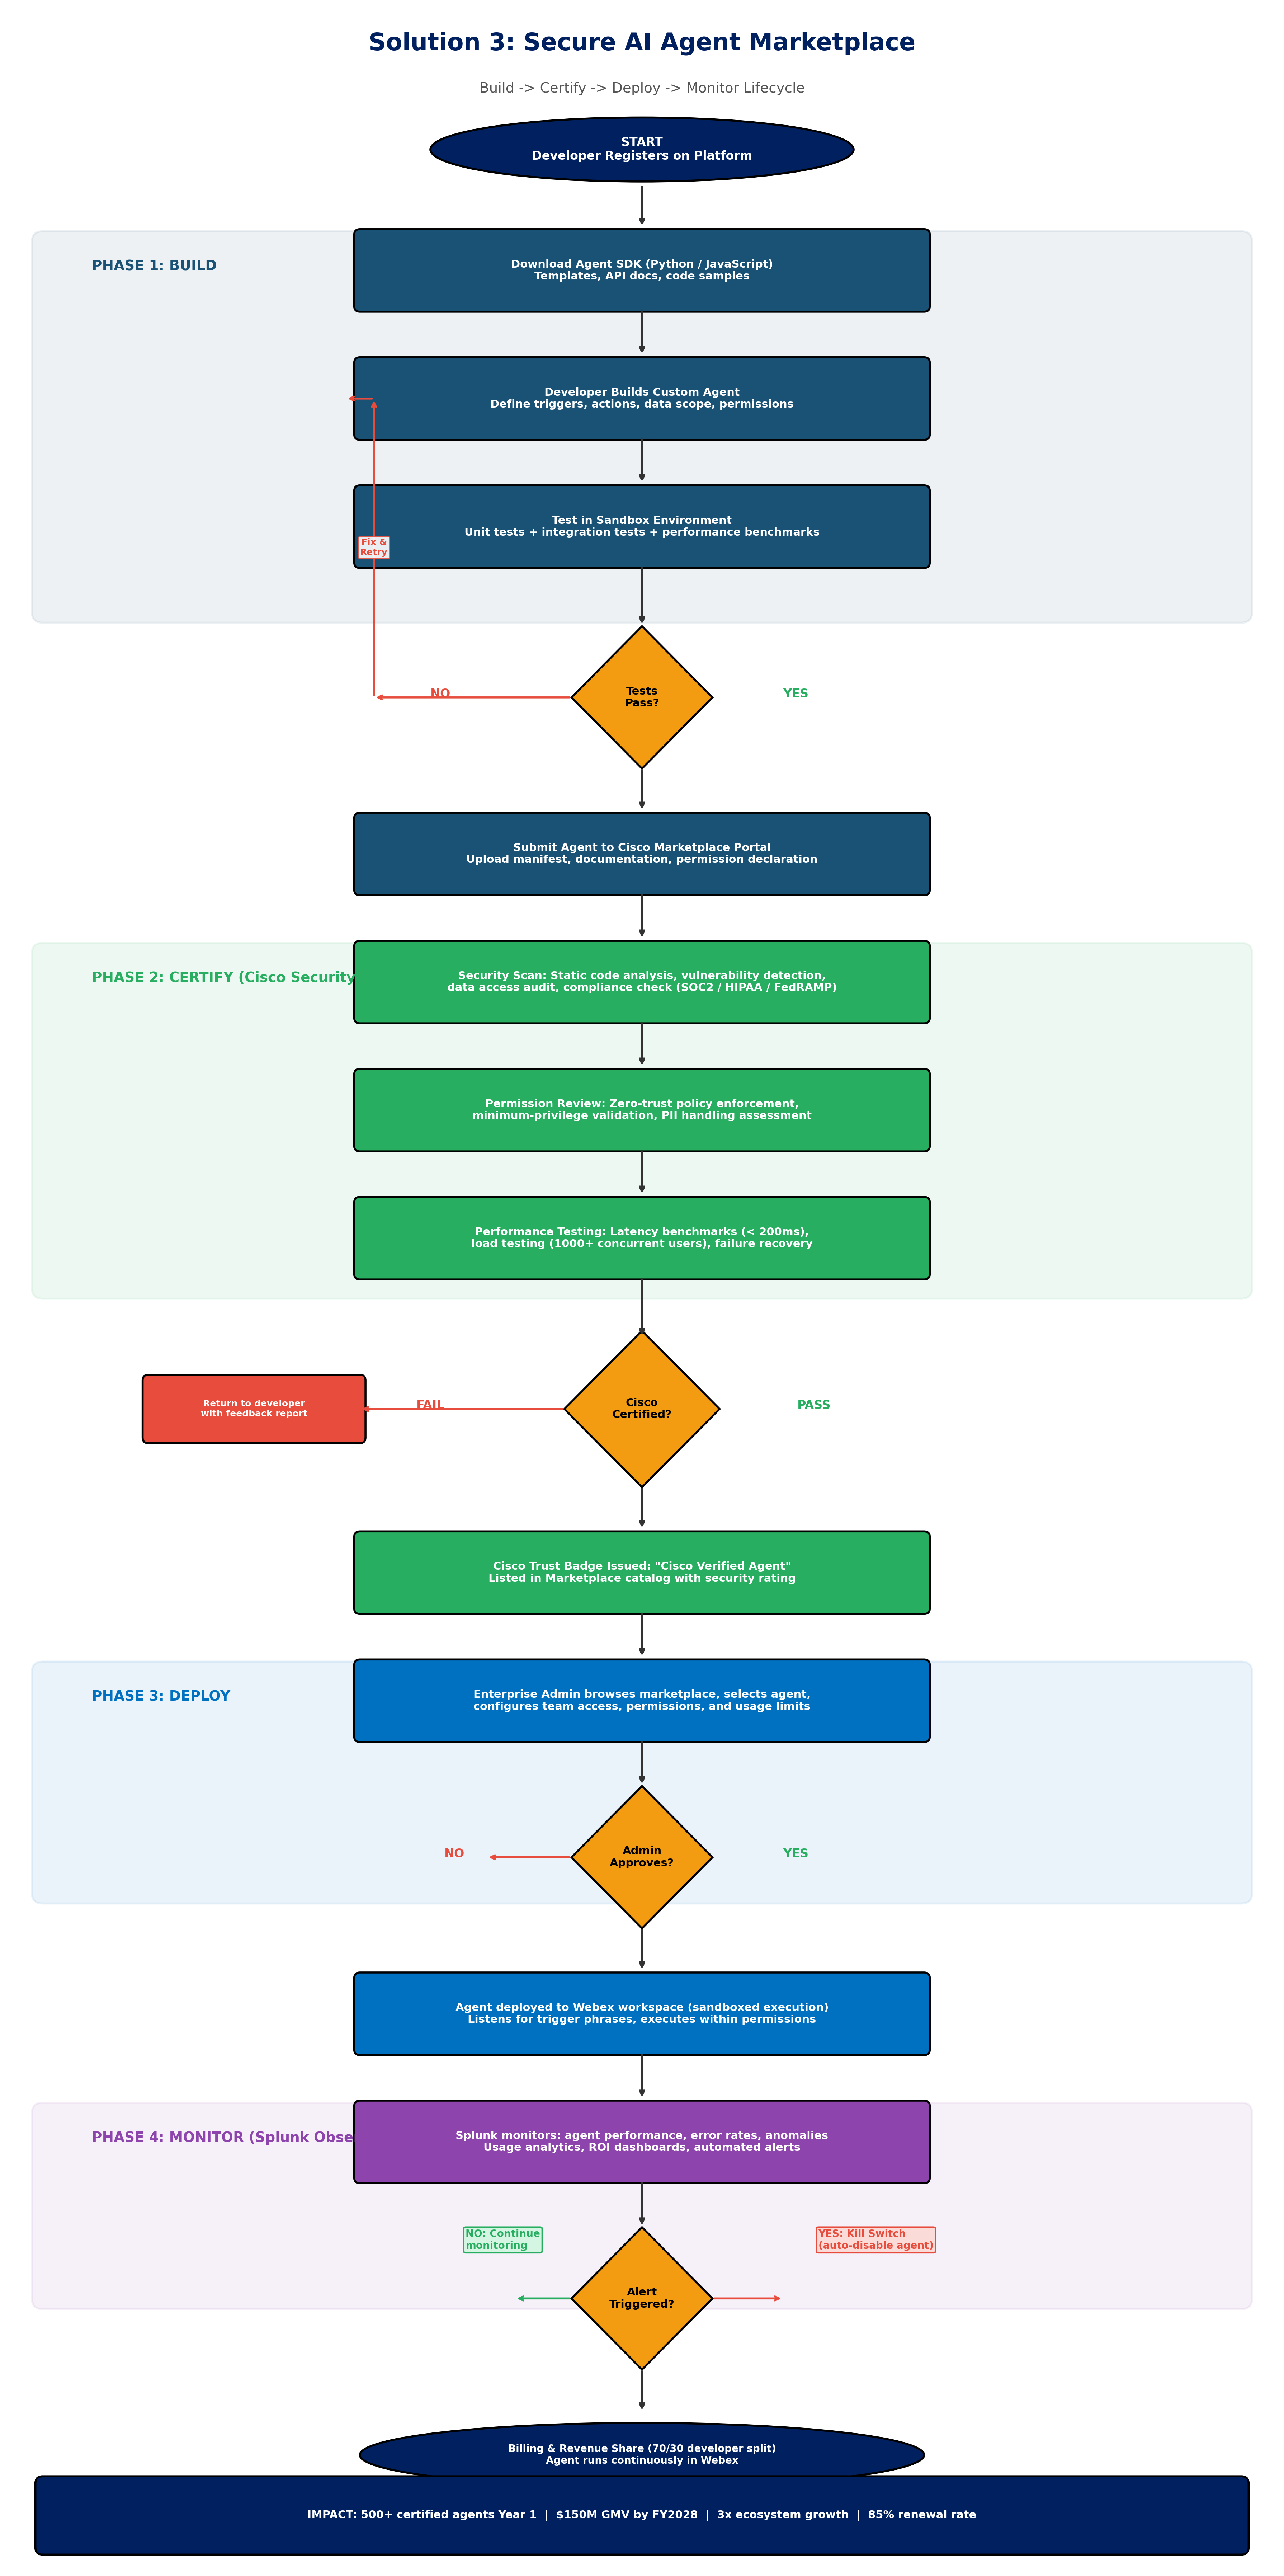
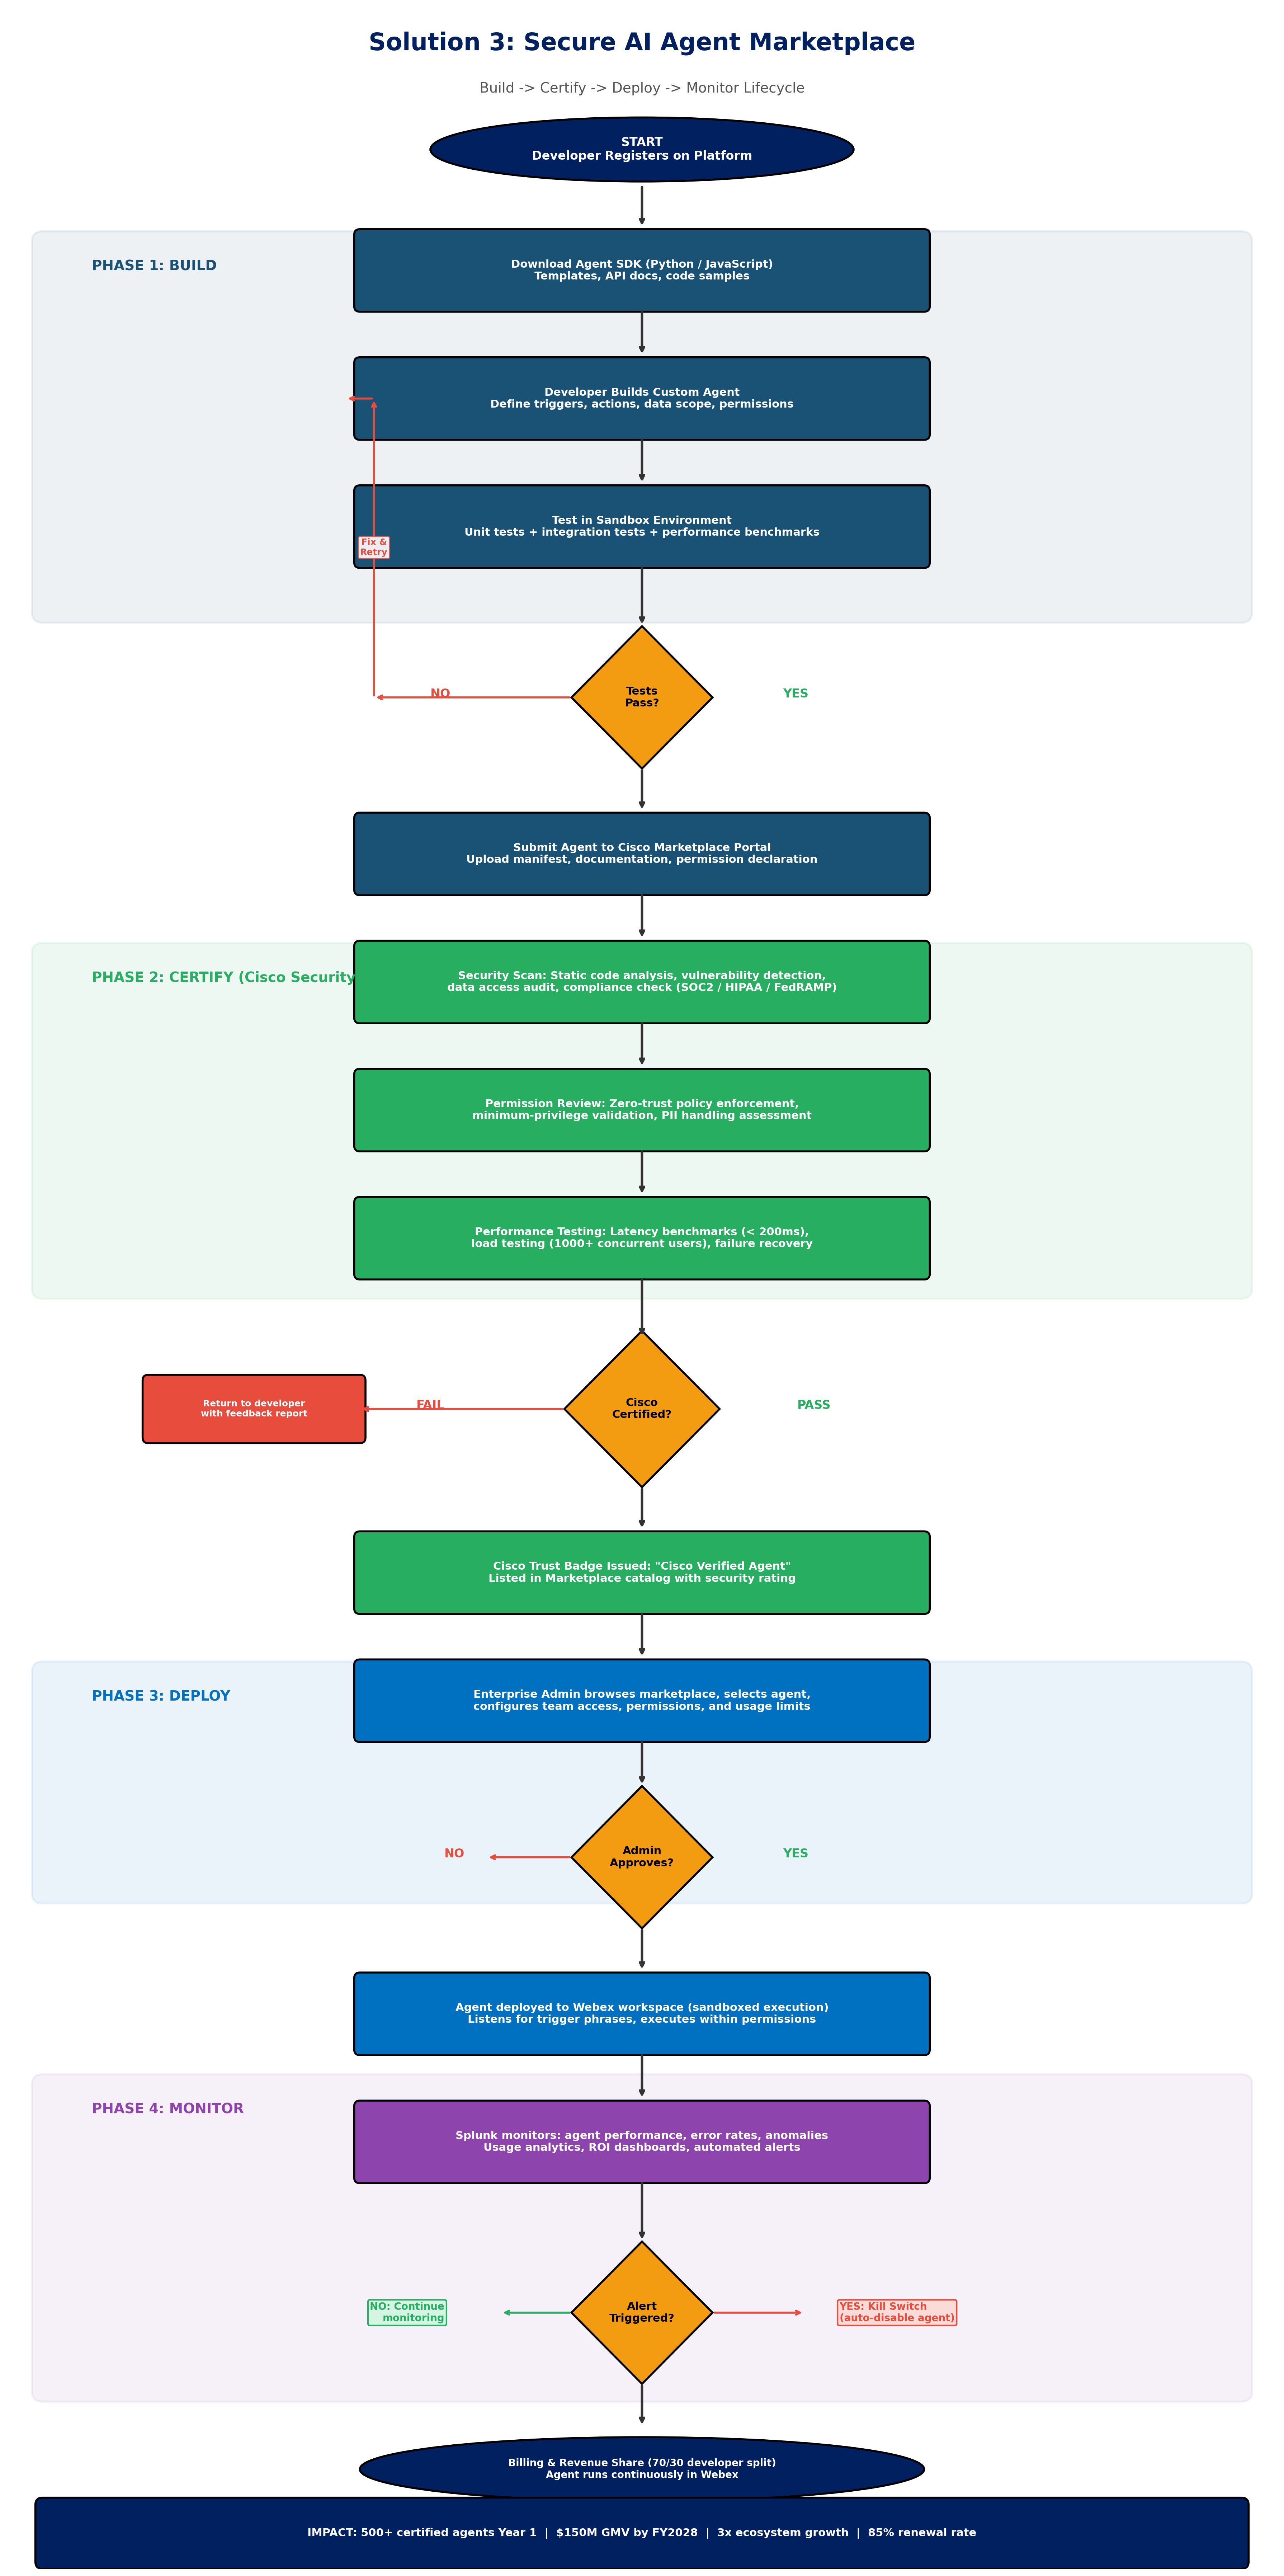
Adjust diagram layout to prevent overlapping elements
Modify the flowchart generation script to adjust element positioning and spacing, ensuring no text or shapes overlap and improving overall readability of the diagram.

Replit-Commit-Author: Agent
Replit-Commit-Session-Id: d1af01ac-c843-4bff-a7a9-fedef4198273
Replit-Commit-Checkpoint-Type: full_checkpoint
Replit-Commit-Event-Id: 0221e506-918f-46f8-959e-66f9a6eb22ea
Replit-Helium-Checkpoint-Created: true

diff --git a/cisco_case/create_problems_solutions.py b/cisco_case/create_problems_solutions.py
@@ -458,34 +458,36 @@ draw_rect(ax, CX, 7.8, 8.0, 1.0,
 arrow(ax, CX, 7.25, CX, 6.6)
 
 # === PHASE 4: MONITOR ===
-p4 = mpatches.FancyBboxPatch((0.5, 3.8), 17.0, 2.6, boxstyle="round,pad=0.15",
+p4 = mpatches.FancyBboxPatch((0.5, 2.5), 17.0, 4.3, boxstyle="round,pad=0.15",
                                facecolor='#8E44AD', edgecolor='#8E44AD', linewidth=2, alpha=0.08)
 ax.add_patch(p4)
-ax.text(1.2, 6.0, 'PHASE 4: MONITOR (Splunk Observability)', fontsize=14, fontweight='bold', color='#8E44AD')
+ax.text(1.2, 6.4, 'PHASE 4: MONITOR', fontsize=14, fontweight='bold', color='#8E44AD')
 
 draw_rect(ax, CX, 6.0, 8.0, 1.0,
           'Splunk monitors: agent performance, error rates, anomalies\nUsage analytics, ROI dashboards, automated alerts', '#8E44AD', 'white', 11)
-arrow(ax, CX, 5.45, CX, 4.8)
+arrow(ax, CX, 5.45, CX, 4.6)
 
-draw_diamond(ax, CX, 3.8, 2.0, 'Alert\nTriggered?', '#F39C12', 'black', 11)
+draw_diamond(ax, CX, 3.6, 2.0, 'Alert\nTriggered?', '#F39C12', 'black', 11)
 
-ax.text(CX + 2.5, 4.5, 'YES: Kill Switch\n(auto-disable agent)', fontsize=10, fontweight='bold', color='#E74C3C',
+ax.text(CX + 2.8, 3.6, 'YES: Kill Switch\n(auto-disable agent)', fontsize=10, fontweight='bold', color='#E74C3C',
+        ha='left', va='center',
         bbox=dict(boxstyle='round,pad=0.2', facecolor='#FADBD8', edgecolor='#E74C3C', linewidth=1.5))
-arrow(ax, CX + 1.0, 3.8, CX + 2.0, 3.8, '#E74C3C', 2)
+arrow(ax, CX + 1.0, 3.6, CX + 2.3, 3.6, '#E74C3C', 2)
 
-ax.text(CX - 2.5, 4.5, 'NO: Continue\nmonitoring', fontsize=10, fontweight='bold', color='#27AE60',
+ax.text(CX - 2.8, 3.6, 'NO: Continue\nmonitoring', fontsize=10, fontweight='bold', color='#27AE60',
+        ha='right', va='center',
         bbox=dict(boxstyle='round,pad=0.2', facecolor='#D5F5E3', edgecolor='#27AE60', linewidth=1.5))
-arrow(ax, CX - 1.0, 3.8, CX - 1.8, 3.8, '#27AE60', 2)
+arrow(ax, CX - 1.0, 3.6, CX - 2.0, 3.6, '#27AE60', 2)
 
-arrow(ax, CX, 2.8, CX, 2.2)
+arrow(ax, CX, 2.6, CX, 2.0)
 
-draw_oval(ax, CX, 1.6, 8.0, 0.9, 'Billing & Revenue Share (70/30 developer split)\nAgent runs continuously in Webex', '#002060', 'white', 10)
+draw_oval(ax, CX, 1.4, 8.0, 0.9, 'Billing & Revenue Share (70/30 developer split)\nAgent runs continuously in Webex', '#002060', 'white', 10)
 
 # === IMPACT BAR ===
-mr = mpatches.FancyBboxPatch((0.5, 0.3), 17.0, 0.9, boxstyle='round,pad=0.1',
+mr = mpatches.FancyBboxPatch((0.5, 0.1), 17.0, 0.8, boxstyle='round,pad=0.1',
                                facecolor='#002060', edgecolor='black', linewidth=2)
 ax.add_patch(mr)
-ax.text(9, 0.75, 'IMPACT: 500+ certified agents Year 1  |  $150M GMV by FY2028  |  '
+ax.text(9, 0.5, 'IMPACT: 500+ certified agents Year 1  |  $150M GMV by FY2028  |  '
         '3x ecosystem growth  |  85% renewal rate',
         ha='center', va='center', fontsize=11, fontweight='bold', color='white')
 